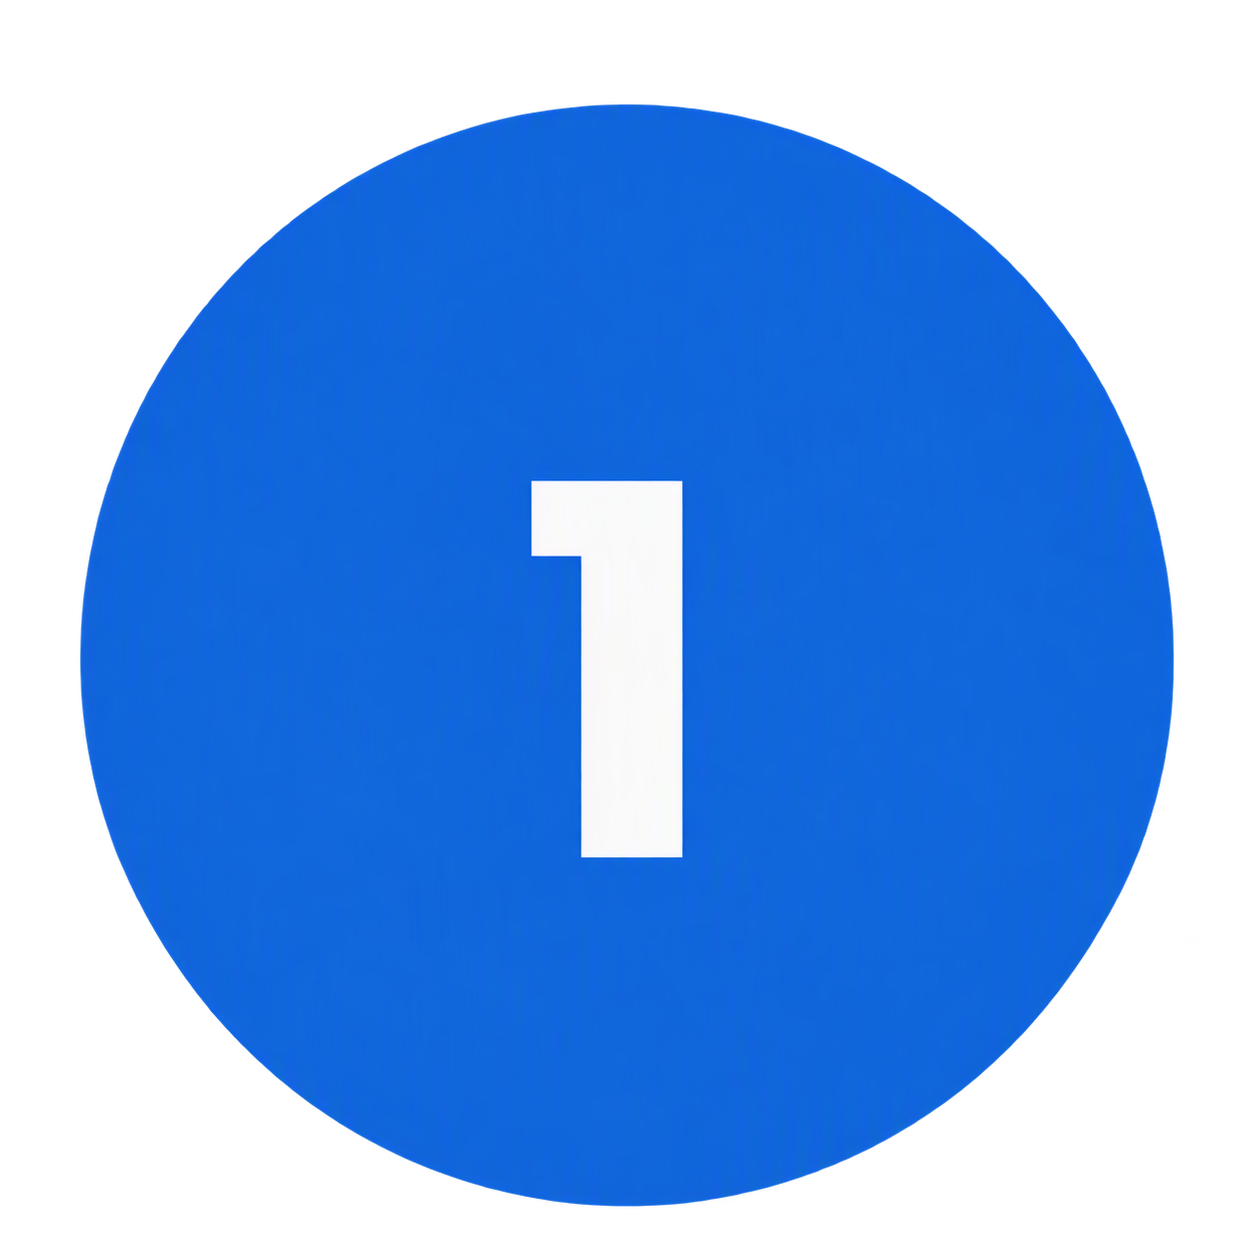
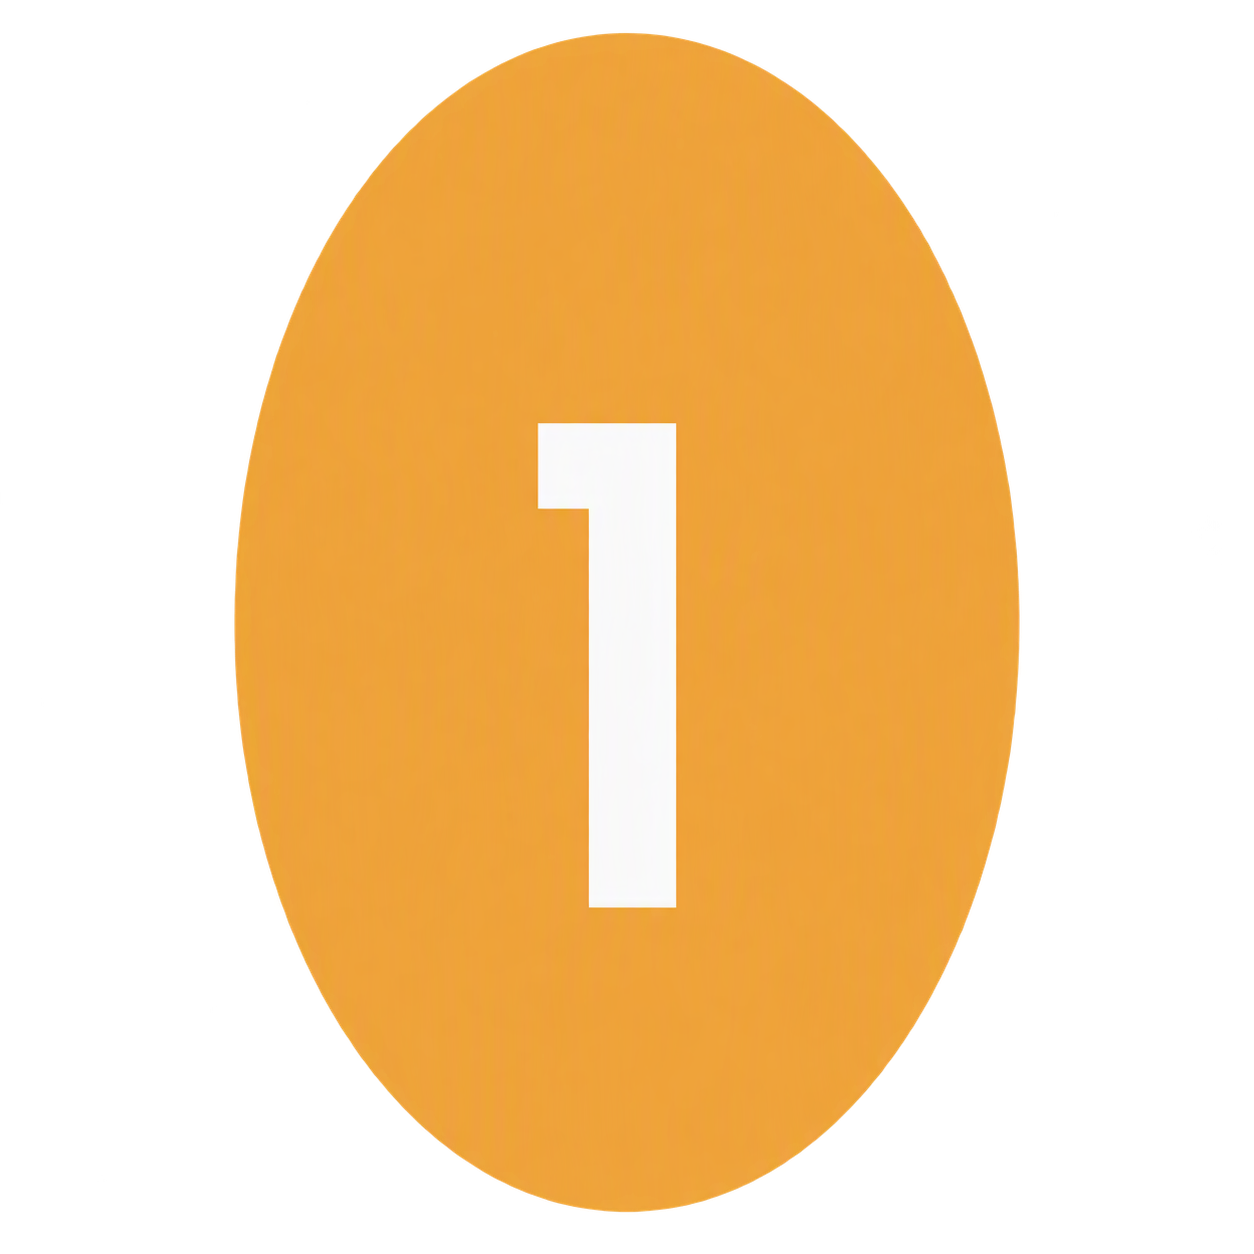
updated

diff --git a/medicolegal.html b/medicolegal.html
@@ -373,12 +373,10 @@
                     <p>Your information is handled confidentially and securely in accordance with:</p>
                 </div>
                 <div class="Ps4">
-                    <ul>
-                        <li>UK General Data Protection Regulation (UK GDPR)</li>
-                        <li>Applicable medico-legal obligations</li>
-                        <li>Data Protection Act 2018</li>
-                        <li>MedCo requirements where applicable</li>
-                    </ul>
+                    <p> <i class="fas fa-check"></i> UK General Data Protection Regulation (UK GDPR)</p>
+                    <p> <i class="fas fa-check"></i> Applicable medico-legal obligations</p>
+                    <p> <i class="fas fa-check"></i> Data Protection Act 2018</p>
+                    <p> <i class="fas fa-check"></i> MedCo requirements where applicable</p>
                 </div>
                 <div class="Ps5">
                     <p>
@@ -386,14 +384,11 @@
                     </p>
                 </div>
                 <div class="Ps6">
-                    <ul>
-                        <li>The instructing solicitor</li>
-                        <li>Court</li>
-                        <li>Insurer</li>
-                        <li>Medical Reporting Organisation (MRO)</li>
-                        <li>Rehabilitation provider</li>
-                        <li>Other authorised parties directly involved in the claim</li>
-                    </ul>
+                    <p> <i class="fas fa-check"></i> The instructing solicitor</p>
+                    <p> <i class="fas fa-check"></i> Court</p>
+                    <p> <i class="fas fa-check"></i> Medical Reporting Organisation (MRO)</p>
+                    <p> <i class="fas fa-check"></i> Rehabilitation provider</p>
+                    <p> <i class="fas fa-check"></i> Other authorised parties directly involved in the claim</p>
                 </div>
                 <div class="Ps7">
                     <p>

diff --git a/css/medicolegal.css b/css/medicolegal.css
@@ -5,6 +5,28 @@
     font-family: Poppins, sans-serif;
 }
 
+.Ps4 p,
+.Ps6 p {
+    color: #555;
+    font-size: 17px;
+    line-height: 34px;
+    margin-bottom: 22px;
+    padding-top: 22px;
+    padding-left: 20px;
+}
+
+.Ps4 i,
+.Ps6 i {
+    line-height: 30px;
+    padding-right: 10px;
+    padding-left: 10px;
+    background-color: #f0a742;
+    font-size: 16px;
+    color: #fff;
+    border-radius: 25px;
+}
+
+
 .SectionBoss {
     width: 100%;
     height: auto;
